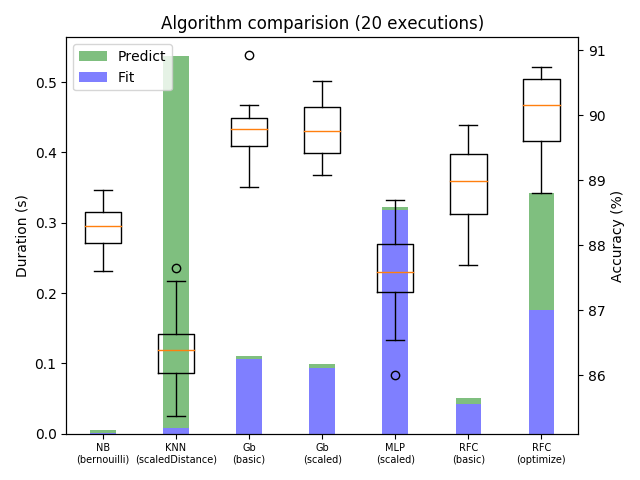
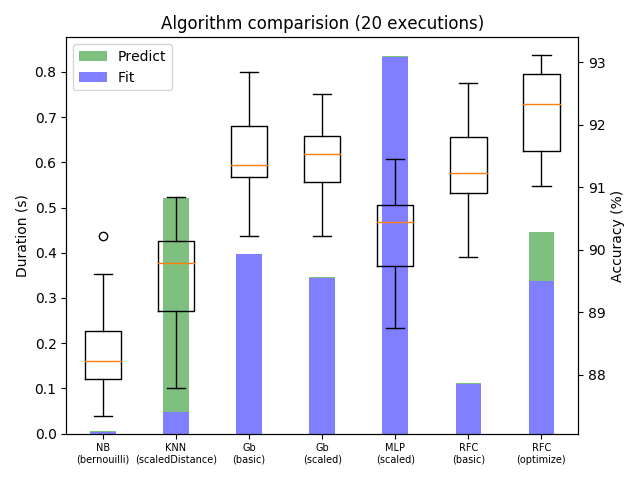
fix default test_size 0.2 and correct images + doc

diff --git a/main.py b/main.py
@@ -3,7 +3,8 @@
 
 Usage:
   slipspam bench [-v] [--drop-col=<nb>...] [--executions=<nb>] [--test-size=<size>] [--dataset=<file>]
-  slipspam predict [-v] [-t] [--drop-col=<nb>...] [--dataset=<file>] (<email-text> | --in-text=<file> | --in-feat=<file>)
+  slipspam predict (<email-text> | --in-text=<file> | --in-feat=<file>) [-v] [-t] [--drop-col=<nb>...]
+                   [--dataset=<file>]
   slipspam parse --in=<file> --out=<file>
   slipspam -h | --help
   slipspam --version
@@ -14,7 +15,7 @@ Options:
   -v                           Verbose.
   -d <nb>, --drop-col=<nb>     Drop a column from the dataset (can be repeted) [default: 26 27].
   -e <nb>, --executions=<nb>   Number of executions [default: 5].
-  --test-size=<size>           Proportion of the dataset to use for the tests [default: 0.8].
+  --test-size=<size>           Proportion of the dataset to use for the tests [default: 0.2].
   --dataset=<file>             Path to a dataset (from data/) [default: spambase.csv].
   -t                           Translated for human readability.
   --in-text=<file>             Path to a file containing the text of a mail to classify.

diff --git a/README.md b/README.md
@@ -2,9 +2,48 @@
 
 Ultimate spam detector
 
-![algorithms benchmark chart](docs/benchmark5.png)
-![interleaved confusion matrix](docs/confusion-matrix1.png)
+## Presentation
 
+Slipspam consists of a command line program that can do 3 things:
+- benchmarks: [`bench`](#bench-command)
+- predictions: [`predict`](#predict-command)
+- email data minig: [`parse`](#parse-command)
+
+### `bench` command
+
+```
+bin/slipspam bench [options]
+```
+
+This command runs a full benchmark of every implemented algorithms over a dataset.
+
+Here are the results of the latest benchark over the [spambase dataset](http://archive.ics.uci.edu/ml/datasets/spambase):
+
+![spambase algorithms benchmark chart](docs/benchmark5.png)
+![spambase interleaved confusion matrix](docs/confusion-matrix1.png)
+
+And here over a [spam dataset found on kaggle](https://www.kaggle.com/karthickveerakumar/spam-filter):
+
+![algorithms benchmark chart](docs/benchmark-emails1.png)
+![interleaved confusion matrix](docs/confusion-matrix-emails1.png)
+
+### `predict` command
+
+```
+bin/slipspam predict [options] (<email-text> | --in-text=<file> | --in-feat=<file>)
+```
+
+This command enables you to predict if a mail is spam or not. It can also run the algorithm on a full dataset via the `--in-feat` option.
+![predict command](./docs/predict-command.png)
+
+### `parse` command
+
+```
+bin/slipspam parse --in=<file> --out=<file>
+```
+
+This command convert a dataset of text mails into a dataset of features corresponding to the ones our algorithm is trained on.
+![parse command](./docs/parse-command.png)
 
 ## Getting Started
 
